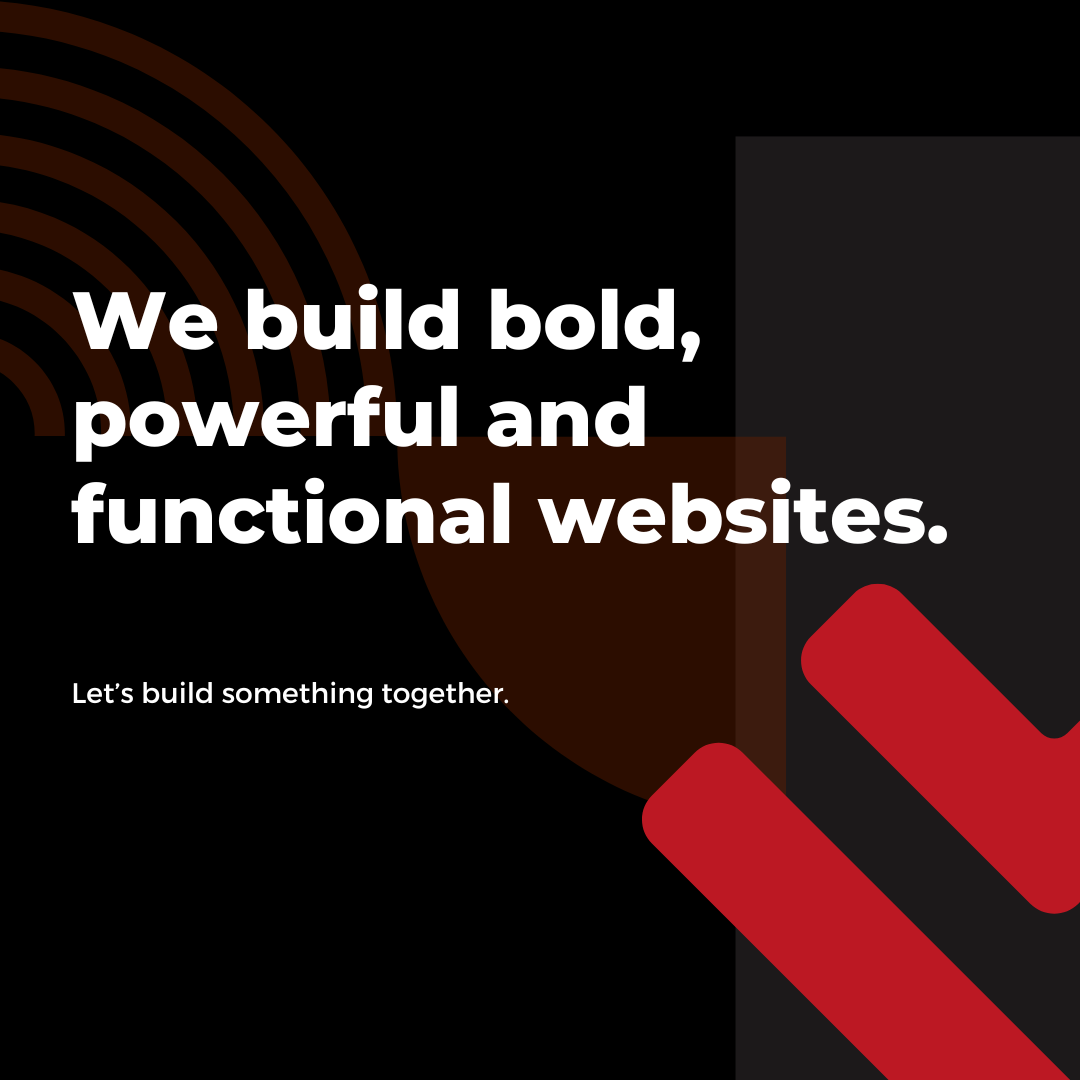
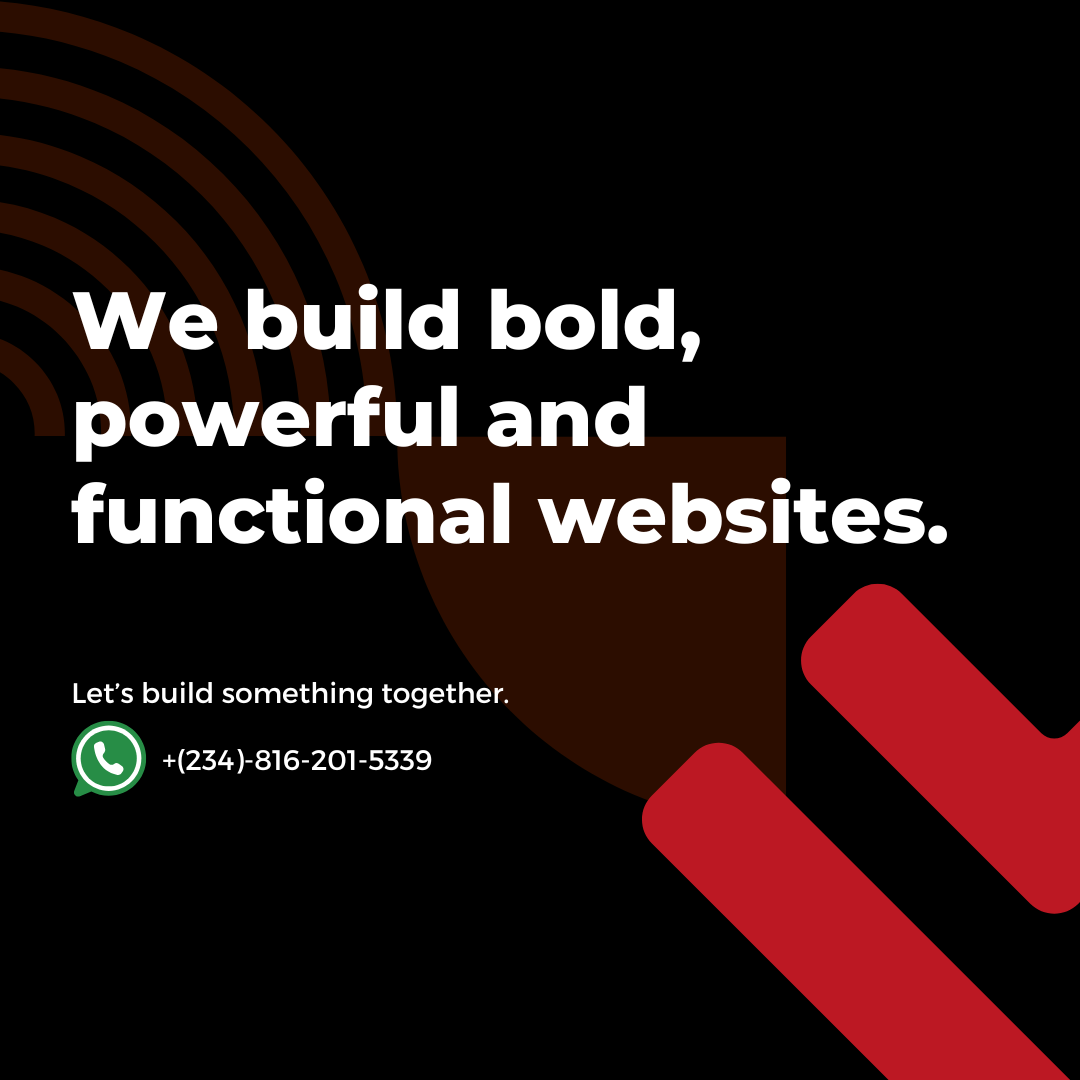
Made contact and about sections mobile responsive

Changed region(s): [[0.6722, 0.1222, 1.0, 1.0], [0.0611, 0.6417, 0.3972, 0.7333], [0.6722, 0.8556, 0.825, 1.0]]

diff --git a/src/app/components/Contact.js b/src/app/components/Contact.js
@@ -44,10 +44,10 @@ export default function Contact() {
 
     try {
       await emailjs.sendForm(
-        'service_dw24kqg', // ✅ your EmailJS service ID
-        'template_w20n8jv', // ✅ your EmailJS template ID
+        'service_dw24kqg',
+        'template_w20n8jv',
         form.current,
-        'OpACznDfCrG49-Awn' // ✅ your EmailJS public key
+        'OpACznDfCrG49-Awn'
       );
       setSuccess('Message sent successfully!');
       setFormData({
@@ -57,44 +57,44 @@ export default function Contact() {
         subject: '',
         message: '',
       });
-      window.grecaptcha.reset(); // Reset captcha
+      window.grecaptcha.reset();
     } catch (err) {
       setError('Something went wrong. Please try again.');
     }
   };
 
   return (
-    <section id="contact" className="bg-white text-white py-20 px-6 md:px-20 font-inter">
+    <section id="contact" className="bg-white text-white py-16 px-4 sm:px-6 md:px-12 lg:px-20 font-inter overflow-hidden">
       <script src="https://www.google.com/recaptcha/api.js" async defer></script>
 
-      <div className="text-center mb-16">
-        <h2 className="text-[#bc1823] text-5xl md:text-6xl font-extrabold font-poppins tracking-tight">
+      <div className="text-center mb-12">
+        <h2 className="text-[#bc1823] text-4xl md:text-6xl font-extrabold font-poppins">
           CONTACT US
         </h2>
-        <p className="mt-4 text-black text-lg md:text-xl max-w-2xl mx-auto">
+        <p className="mt-4 text-black text-base md:text-lg max-w-2xl mx-auto">
           Have a project in mind? Let’s talk. Send us a message and we’ll get back to you as soon as possible.
         </p>
       </div>
 
-      <div className="max-w-7xl mx-auto grid md:grid-cols-10 gap-10">
+      <div className="max-w-7xl mx-auto grid grid-cols-1 md:grid-cols-10 gap-6 md:gap-10">
         {/* Contact Info */}
-        <div className="bg-black p-10 rounded-xl space-y-10 md:col-span-3 shadow-lg">
+        <div className="bg-black p-6 md:p-10 rounded-xl space-y-8 md:col-span-3 shadow-lg">
           <div>
-            <h4 className="text-2xl font-extrabold text-white mb-2">Email Address</h4>
-            <p className="text-white/80 text-base">support@venondigital.com</p>
+            <h4 className="text-xl font-extrabold mb-1">Email Address</h4>
+            <p className="text-white/80 text-sm sm:text-base">support@venondigital.com</p>
           </div>
           <div>
-            <h4 className="text-2xl font-extrabold text-white mb-2">Office Location</h4>
-            <p className="text-white/80 text-base">13 New Cemetery Road, Onitsha, Nigeria</p>
+            <h4 className="text-xl font-extrabold mb-1">Office Location</h4>
+            <p className="text-white/80 text-sm sm:text-base">13 New Cemetery Road, Onitsha, Nigeria</p>
           </div>
           <div>
-            <h4 className="text-2xl font-extrabold text-white mb-2">Phone Number</h4>
-            <p className="text-white/80 text-base">+234 816 201 5339</p>
+            <h4 className="text-xl font-extrabold mb-1">Phone Number</h4>
+            <p className="text-white/80 text-sm sm:text-base">+234 816 201 5339</p>
           </div>
-          <hr className="border-white/10 my-4" />
+          <hr className="border-white/10" />
           <div>
-            <h4 className="text-2xl font-extrabold text-white mb-4">Social Media</h4>
-            <div className="flex items-center gap-6 text-white text-lg">
+            <h4 className="text-xl font-extrabold mb-2">Social Media</h4>
+            <div className="flex gap-5 text-lg">
               <a href="#"><FaFacebookF /></a>
               <a href="#"><FaInstagram /></a>
               <a href="#"><FaXTwitter /></a>
@@ -107,56 +107,30 @@ export default function Contact() {
         <form
           ref={form}
           onSubmit={handleSubmit}
-          className="bg-black p-8 rounded-xl space-y-6 md:col-span-7"
+          className="bg-black p-6 md:p-8 rounded-xl space-y-6 md:col-span-7"
         >
           {error && <p className="text-red-500 font-medium">{error}</p>}
           {success && <p className="text-green-500 font-medium">{success}</p>}
 
-          <div className="grid md:grid-cols-2 gap-6">
-            <div>
-              <label className="block mb-2 text-sm font-medium">Full Name</label>
-              <input
-                name="fullName"
-                value={formData.fullName}
-                onChange={handleChange}
-                type="text"
-                placeholder="Your name"
-                className="w-full px-4 py-3 rounded-md bg-black border border-gray-600 text-white placeholder-white/40 focus:outline-none focus:ring-2 focus:ring-[#bc1823]"
-              />
-            </div>
-            <div>
-              <label className="block mb-2 text-sm font-medium">Email Address</label>
-              <input
-                name="email"
-                value={formData.email}
-                onChange={handleChange}
-                type="email"
-                placeholder="example@email.com"
-                className="w-full px-4 py-3 rounded-md bg-black border border-gray-600 text-white placeholder-white/40 focus:outline-none focus:ring-2 focus:ring-[#bc1823]"
-              />
-            </div>
-            <div>
-              <label className="block mb-2 text-sm font-medium">Phone Number</label>
-              <input
-                name="phone"
-                value={formData.phone}
-                onChange={handleChange}
-                type="text"
-                placeholder="+234 000 000 0000"
-                className="w-full px-4 py-3 rounded-md bg-black border border-gray-600 text-white placeholder-white/40 focus:outline-none focus:ring-2 focus:ring-[#bc1823]"
-              />
-            </div>
-            <div>
-              <label className="block mb-2 text-sm font-medium">Subject</label>
-              <input
-                name="subject"
-                value={formData.subject}
-                onChange={handleChange}
-                type="text"
-                placeholder="Project Inquiry"
-                className="w-full px-4 py-3 rounded-md bg-black border border-gray-600 text-white placeholder-white/40 focus:outline-none focus:ring-2 focus:ring-[#bc1823]"
-              />
-            </div>
+          <div className="grid grid-cols-1 md:grid-cols-2 gap-6">
+            {[
+              { name: 'fullName', type: 'text', placeholder: 'Your name', label: 'Full Name' },
+              { name: 'email', type: 'email', placeholder: 'example@email.com', label: 'Email Address' },
+              { name: 'phone', type: 'text', placeholder: '+234 000 000 0000', label: 'Phone Number' },
+              { name: 'subject', type: 'text', placeholder: 'Project Inquiry', label: 'Subject' },
+            ].map(({ name, type, placeholder, label }) => (
+              <div key={name}>
+                <label className="block mb-2 text-sm font-medium">{label}</label>
+                <input
+                  name={name}
+                  value={formData[name]}
+                  onChange={handleChange}
+                  type={type}
+                  placeholder={placeholder}
+                  className="w-full px-4 py-3 rounded-md bg-black border border-gray-600 text-white placeholder-white/40 focus:outline-none focus:ring-2 focus:ring-[#bc1823]"
+                />
+              </div>
+            ))}
           </div>
 
           <div>
@@ -171,7 +145,6 @@ export default function Contact() {
             ></textarea>
           </div>
 
-          {/* ✅ reCAPTCHA box (V2 checkbox) */}
           <div className="g-recaptcha" data-sitekey="6LekYV8rAAAAAL1pXiXhM5YjN76A5IS9XWlPkQWs"></div>
 
           <button

diff --git a/src/app/components/About.js b/src/app/components/About.js
@@ -4,10 +4,9 @@ import { motion } from 'framer-motion';
 
 export default function About() {
   return (
-    <section
-      id="about"
-      className="w-full bg-black text-white pt-6 md:pt-16 pb-16 px-6 md:px-10 flex flex-col md:flex-row items-start md:items-center justify-center gap-10"
+    <section id="about" className="w-full bg-black text-white pt-6 sm:pt-8 md:pt-16 pb-16 px-4 sm:px-6 md:px-10 flex flex-col md:flex-row items-start md:items-center justify-center gap-10"
     >
+
       {/* ABOUT Heading (Visible Only on Desktop) */}
       <motion.div
         initial={{ opacity: 0, x: -50 }}
